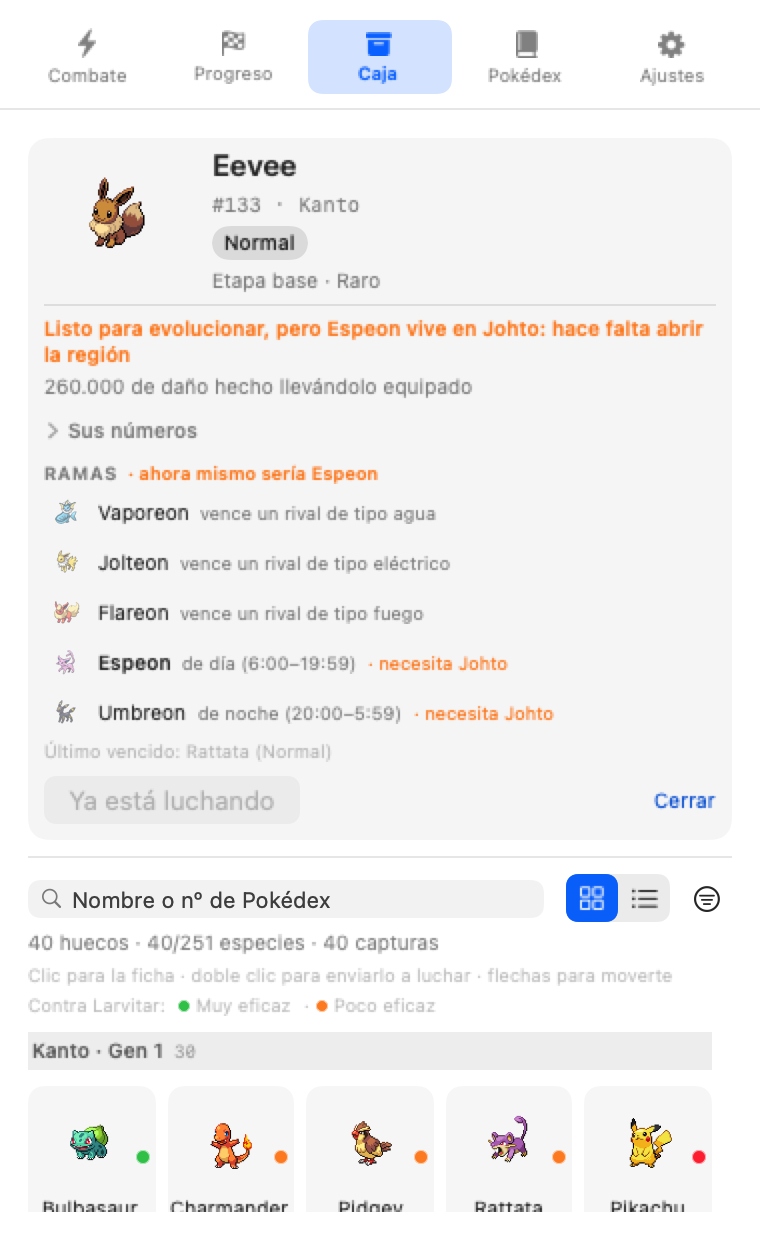
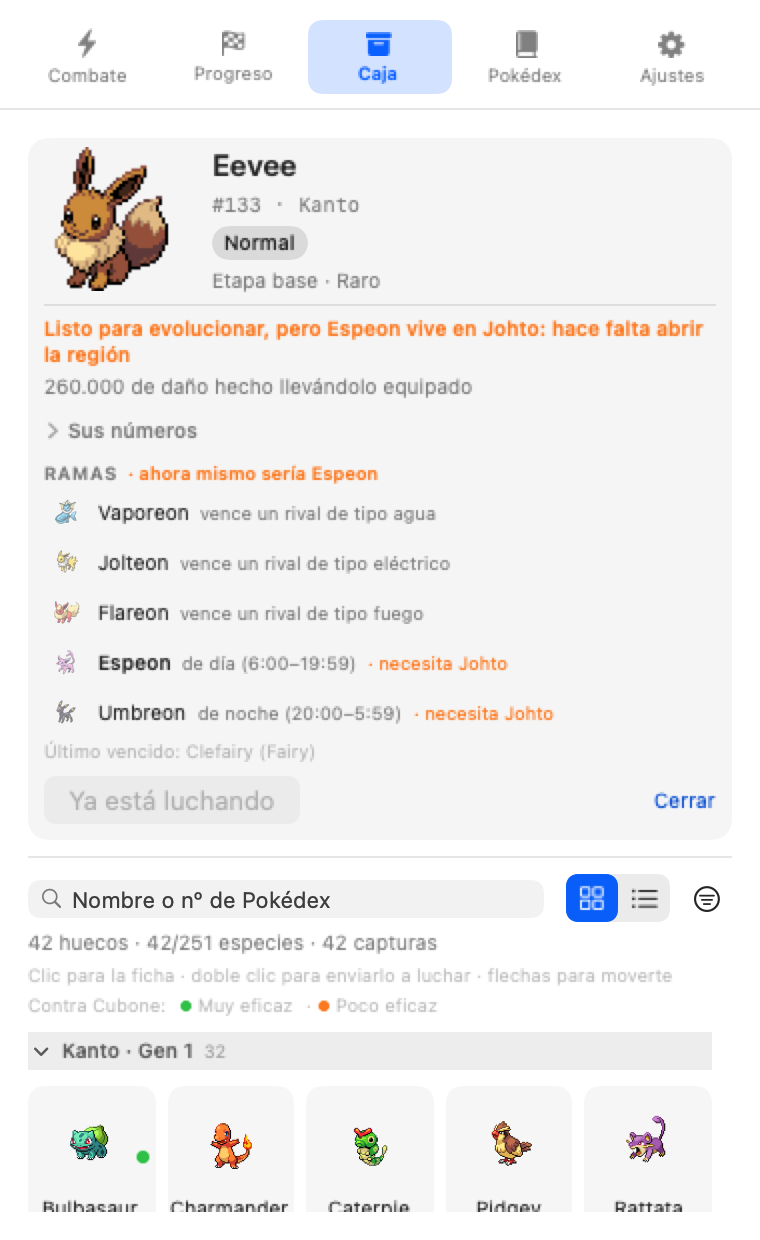
feat(caja): cada tramo se pliega desde su cabecera

diff --git a/Sources/PokeTokenBar/Views/BoxGridView.swift b/Sources/PokeTokenBar/Views/BoxGridView.swift
@@ -43,7 +43,9 @@ struct BoxGridView: View {
                 LazyVStack(alignment: .leading, spacing: 8, pinnedViews: [.sectionHeaders]) {
                     ForEach(store.boxSections) { section in
                         Section {
-                            body(of: section)
+                            if !store.isBoxSectionCollapsed(section.id) {
+                                body(of: section)
+                            }
                         } header: {
                             header(section)
                         }
@@ -104,7 +106,21 @@ struct BoxGridView: View {
     }
 
     private func header(_ section: BoxSection) -> some View {
+        let collapsed = store.isBoxSectionCollapsed(section.id)
+        return Button {
+            store.toggleBoxSection(section.id)
+        } label: {
+            headerLabel(section, collapsed: collapsed)
+        }
+        .buttonStyle(.plain)
+        .help(collapsed ? "Desplegar" : "Plegar")
+    }
+
+    private func headerLabel(_ section: BoxSection, collapsed: Bool) -> some View {
         HStack(spacing: 5) {
+            Image(systemName: collapsed ? "chevron.right" : "chevron.down")
+                .font(.system(size: 8, weight: .bold))
+                .foregroundStyle(.secondary)
             Text(section.title)
                 .font(.system(size: 10, weight: .semibold))
                 .foregroundStyle(.secondary)
@@ -115,6 +131,7 @@ struct BoxGridView: View {
         }
         .padding(.vertical, 3)
         .padding(.horizontal, 2)
+        .contentShape(Rectangle())
         .background(.regularMaterial)
     }
 

diff --git a/Sources/PokeTokenBarSelfTest/BoxSectionTests.swift b/Sources/PokeTokenBarSelfTest/BoxSectionTests.swift
@@ -17,6 +17,7 @@ enum BoxSectionTests: TestSuite {
         ("una columna deja la caja en lista", testSingleColumn),
         ("el teclado no sale de lo filtrado", testKeyboardStaysInsideTheFilter),
         ("intro equipa el seleccionado", testReturnEquipsSelection),
+        ("el teclado salta los tramos plegados", testKeyboardSkipsCollapsedSections),
         ("la densidad se persiste", testDensitySurvivesReload),
     ]
 
@@ -202,6 +203,24 @@ enum BoxSectionTests: TestSuite {
             let moved = try unwrap(store.moveBoxSelection(direction, columns: 3))
             expectTrue(visible.contains(moved), "seleccionó \(moved), que está filtrado")
         }
+    }
+
+    static func testKeyboardSkipsCollapsedSections() throws {
+        let store = primedStore()
+        let sections = store.boxSections
+        expectEqual(sections.map(\.id), ["gen-1", "gen-2"])
+        let kanto = Set(try unwrap(sections.first).groups.map(\.id))
+
+        store.toggleBoxSection("gen-1")
+        expectTrue(store.isBoxSectionCollapsed("gen-1"))
+        expectFalse(store.isBoxSectionCollapsed("gen-2"))
+        for direction in [BoxMove.right, .down, .left, .up] {
+            let moved = try unwrap(store.moveBoxSelection(direction, columns: 3))
+            expectFalse(kanto.contains(moved), "seleccionó \(moved), que está plegado")
+        }
+
+        store.toggleBoxSection("gen-1")
+        expectFalse(store.isBoxSectionCollapsed("gen-1"))
     }
 
     static func testReturnEquipsSelection() throws {

diff --git a/Sources/PokeTokenBarCore/Store/GameStore.swift b/Sources/PokeTokenBarCore/Store/GameStore.swift
@@ -830,11 +830,15 @@ public final class GameStore: ObservableObject {
 
     /// Alterna entre la paleta shiny y la normal. Solo tiene efecto en un
     /// shiny de verdad: no se puede "pintar" uno normal.
+    public func isBoxSectionCollapsed(_ id: String) -> Bool { isCollapsed("caja:" + id) }
+    public func toggleBoxSection(_ id: String) { toggleSection("caja:" + id) }
+
     /// Mueve la selección de la caja con el teclado. Devuelve el hueco nuevo
     /// para que la vista pueda hacerle scroll.
     @discardableResult
     public func moveBoxSelection(_ direction: BoxMove, columns: Int) -> String? {
-        let next = BoxSection.move(direction, from: selectedBoxGroupID, in: boxSections, columns: columns)
+        let open = boxSections.filter { !isBoxSectionCollapsed($0.id) }
+        let next = BoxSection.move(direction, from: selectedBoxGroupID, in: open, columns: columns)
         if let next { selectedBoxGroupID = next }
         return next
     }
